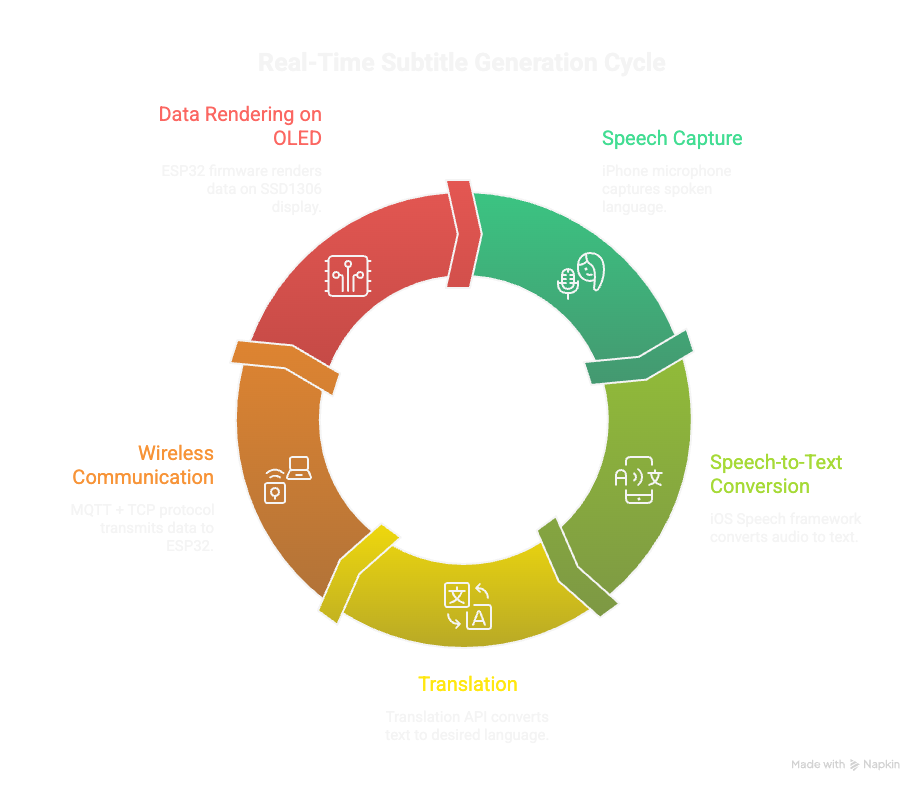
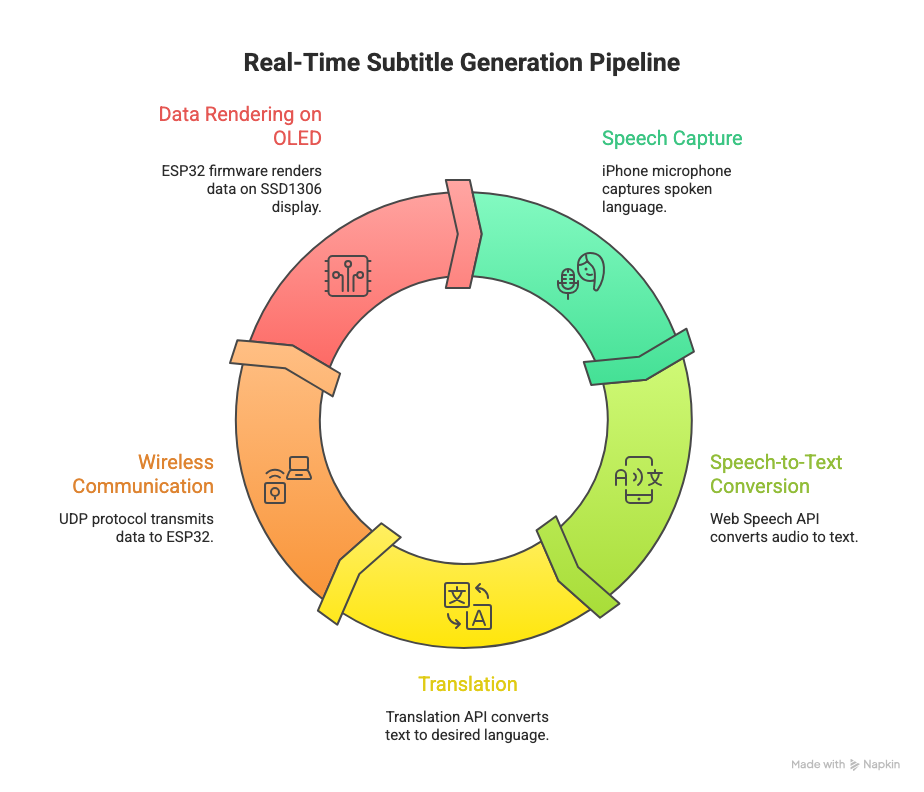
Added new image and descriptions for about me section.

Changed region(s): [[0.0606, 0.2121, 0.9394, 0.8182], [0.2424, 0.0606, 0.7576, 0.0909], [0.4242, 0.8485, 0.6061, 0.9394]]

diff --git a/index.html b/index.html
@@ -4,7 +4,7 @@
     <meta charset="UTF-8">
     <meta name="viewport" content="width=device-width, initial-scale=1.0">
     <title>Noah Mathew - Portfolio</title>
-    <link rel="stylesheet" href="styles.css?v=tan-logos-2">
+    <link rel="stylesheet" href="styles.css?v=about-photo-3">
     <link rel="preconnect" href="https://fonts.googleapis.com">
     <link rel="preconnect" href="https://fonts.gstatic.com" crossorigin>
     <link href="https://fonts.googleapis.com/css2?family=Inter:wght@300;400;500;600;700&display=swap" rel="stylesheet">
@@ -61,51 +61,40 @@
 
         <section id="about" class="about">
             <div class="container">
-                <h2 class="section-title">About Me</h2>
+                <div class="about-header">
+                    <h2 class="section-title">About Me</h2>
+                    <img src="images/noah.png?v=2" alt="Noah Mathew at a UC Irvine engineering event" class="about-image" width="800" height="800" />
+                </div>
                 <div class="about-row">
                     <div class="about-logos education-logos" aria-label="Education">
                         <figure class="about-logo">
                             <img src="images/uci-mecps.png" alt="UC Irvine MECPS" width="300" height="85" loading="lazy" />
-                            <figcaption>Master's · Embedded &amp; Cyber Physical Systems</figcaption>
+
                         </figure>
                         <figure class="about-logo">
                             <img src="images/uci-eecs.png" alt="UCI Samueli School of Engineering, Department of Electrical Engineering and Computer Science" width="411" height="122" loading="lazy" />
-                            <figcaption>Bachelor's · Computer Engineering</figcaption>
+
                         </figure>
                     </div>
                     <p class="about-text">
-                        Completing my Master's degree in Embedded and Cyber Physical Systems at UC Irvine. Obtained my Bachelor's degree in Computer Engineering at UC Irvine.
+                        Completing my Master's degree in Embedded and Cyber Physical Systems at UC Irvine. Obtained my Bachelor's degree in Computer Engineering at UC Irvine, where my coursework included VLSI, MEMS to AI, System Software, and Data Structures and Algorithms. These courses strengthened my foundation in hardware design, system-level software, and computational problem-solving.
                     </p>
                 </div>
                 <div class="about-row">
                     <div class="about-logos employer-logos" aria-label="Industry experience">
                         <figure class="about-logo">
                             <img class="virgin-galactic-logo" src="images/virgin-galactic.jpg" alt="Virgin Galactic" width="900" height="900" loading="lazy" />
-                            <figcaption>Virgin Galactic</figcaption>
+
                         </figure>
                         <figure class="about-logo">
                             <img class="ust-logo" src="images/ust.svg" alt="UST" width="75" height="75" loading="eager" />
-                            <figcaption>UST</figcaption>
+
                         </figure>
                     </div>
                     <div>
                         <p class="about-text">Currently an Avionics Engineer, Contractor at Virgin Galactic.</p>
-                        <p class="about-text">Recently completed an internship at Virgin Galactic as an Avionics Software Engineer, and have done 3 internships as an Embedded Software Engineer at UST.</p>
-                    </div>
-                </div>
-                <div class="about-content">
-                    <div class="about-image-container">
-                        <img src="images/noah.png" alt="Noah Mathew" class="about-image" />
-                    </div>
-                    <div class="interests">
-                        <h3>Interests</h3>
-                        <ul class="interests-list">
-                            <li data-interest="iot">IoT technologies/Embedded Software</li>
-                            <li data-interest="firmware">Firmware Engineering</li>
-                            <li data-interest="pcb">PCB &amp; IC Design</li>
-                            <li data-interest="architecture">Computer Architecture; Semiconductors</li>
-                            <li data-interest="ai">AI/ML</li>
-                        </ul>
+                        <p class="about-text">Recently completed an internship at Virgin Galactic as an Avionics Software Engineer, where I performed software-in-the-loop (SIL) and hardware-in-the-loop (HIL) testing for the Delta spaceship.</p>
+                        <p class="about-text">Completed three internships as an Embedded Software Engineer at UST, working on projects for clients in the airline, telecommunications, and pharmaceutical industries.</p>
                     </div>
                 </div>
             </div>
@@ -146,6 +135,20 @@
                             GitHub
                         </a>
                     </div>
+                </div>
+            </div>
+        </section>
+        <section id="interests" class="interests-section">
+            <div class="container">
+                <div class="interests">
+                    <h2 class="section-title">Interests</h2>
+                    <ul class="interests-list">
+                        <li data-interest="iot">IoT technologies/Embedded Software</li>
+                        <li data-interest="firmware">Firmware Engineering</li>
+                        <li data-interest="pcb">PCB &amp; IC Design</li>
+                        <li data-interest="architecture">Computer Architecture; Semiconductors</li>
+                        <li data-interest="ai">AI/ML</li>
+                    </ul>
                 </div>
             </div>
         </section>
@@ -226,6 +229,6 @@
         </div>
     </div>
 
-    <script src="script.js?v=4"></script>
+    <script src="script.js?v=5"></script>
 </body>
 </html>

diff --git a/styles.css b/styles.css
@@ -293,22 +293,23 @@ body {
 }
 
 
-.about-content {
-    max-width: 1200px;
-    margin: 3rem auto 0;
+.about-header {
     display: flex;
-    flex-direction: row;
-    align-items: flex-start;
-    gap: 3rem;
+    align-items: center;
+    justify-content: space-between;
+    gap: 2rem;
+    margin-bottom: 2rem;
 }
 
-.about-image-container {
-    flex-shrink: 0;
+.about-header .section-title {
+    width: auto;
+    margin: 0;
+    text-align: left;
 }
 
 .about-image {
-    max-width: 300px;
-    width: 100%;
+    width: 200px;
+    max-width: 40%;
     height: auto;
     border-radius: 12px;
     box-shadow: var(--shadow-lg);
@@ -329,6 +330,11 @@ body {
 .interests {
     flex: 1;
     position: relative;
+}
+
+.interests-section {
+    padding: 4rem 0 6rem;
+    background: var(--bg-primary);
 }
 
 /* Pair each part of the biography with its institutions. */
@@ -362,12 +368,16 @@ body {
     flex-direction: column;
     align-items: center;
     justify-content: center;
-    gap: 1rem;
     padding: 1rem;
-    background: #fff;
-    border: 1px solid var(--border-color);
-    border-radius: 12px;
     min-width: 0;
+}
+
+.education-logos img {
+    mix-blend-mode: multiply;
+}
+
+.education-logos .about-logo {
+    background-color: var(--bg-primary);
 }
 
 .about-logo img {
@@ -385,13 +395,6 @@ body {
 .employer-logos .ust-logo {
     width: 110px;
     height: 110px;
-}
-
-.about-logo figcaption {
-    font-size: 0.75rem;
-    line-height: 1.5;
-    color: var(--text-secondary);
-    text-align: center;
 }
 
 @media (max-width: 600px) {
@@ -1134,16 +1137,6 @@ body {
 
     .interests-list {
         grid-template-columns: 1fr;
-    }
-
-    .about-content {
-        flex-direction: column;
-        align-items: center;
-        gap: 2rem;
-    }
-
-    .about-image {
-        max-width: 250px;
     }
 
     .projects-grid {

diff --git a/script.js b/script.js
@@ -39,7 +39,7 @@ const projects = [
         title: "Real-Time Subtitle Smart Glasses System",
         description: "Built a real-time subtitle pipeline capturing smartphone speech, translating text through a C++ server backend, and streaming translated subtitles to an ESP32-based wearable display system. Implemented UDP networking between the C++ server and ESP32 to deliver translated subtitle packets and render them on an SSD1306 OLED near-eye display integrated with an optical beam splitter.",
         tags: ["C++", "ESP32", "UDP", "Speech-to-Text", "OLED", "Embedded Systems", "IoT"],
-        backgroundImage: "images/smartglasses_flowchart.png",
+        backgroundImage: "images/smartglasses_flowchart.png?v=2",
         links: {
             github: "https://github.com/noahmathew/SmartGlasses_LiveTranslation",
             pdfs: [
